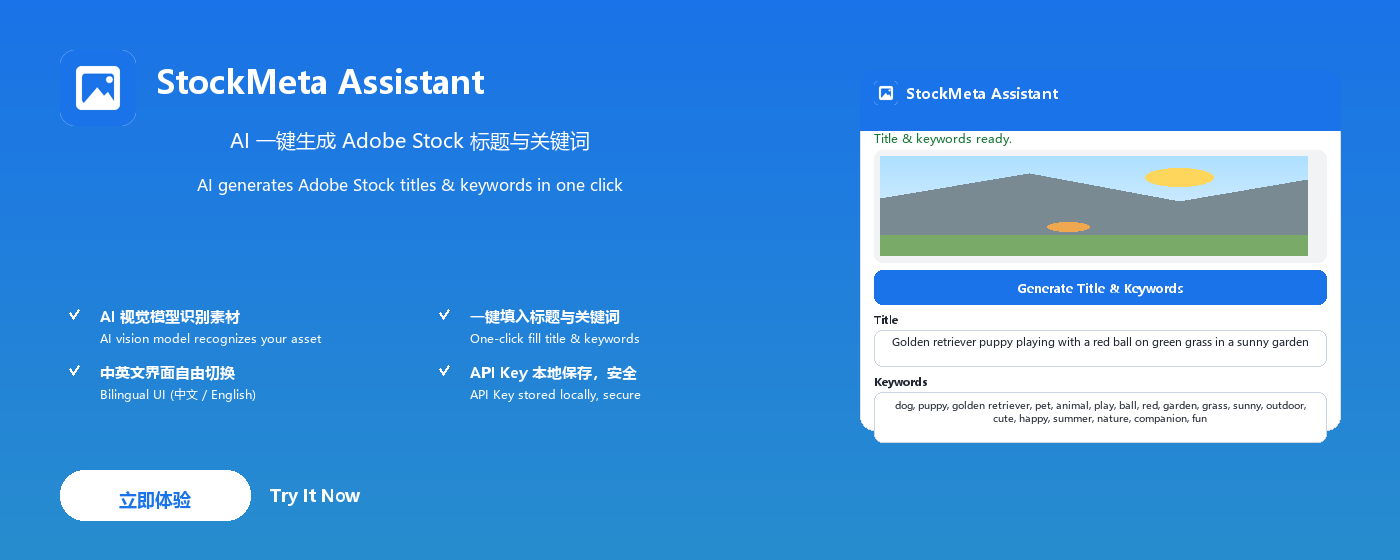
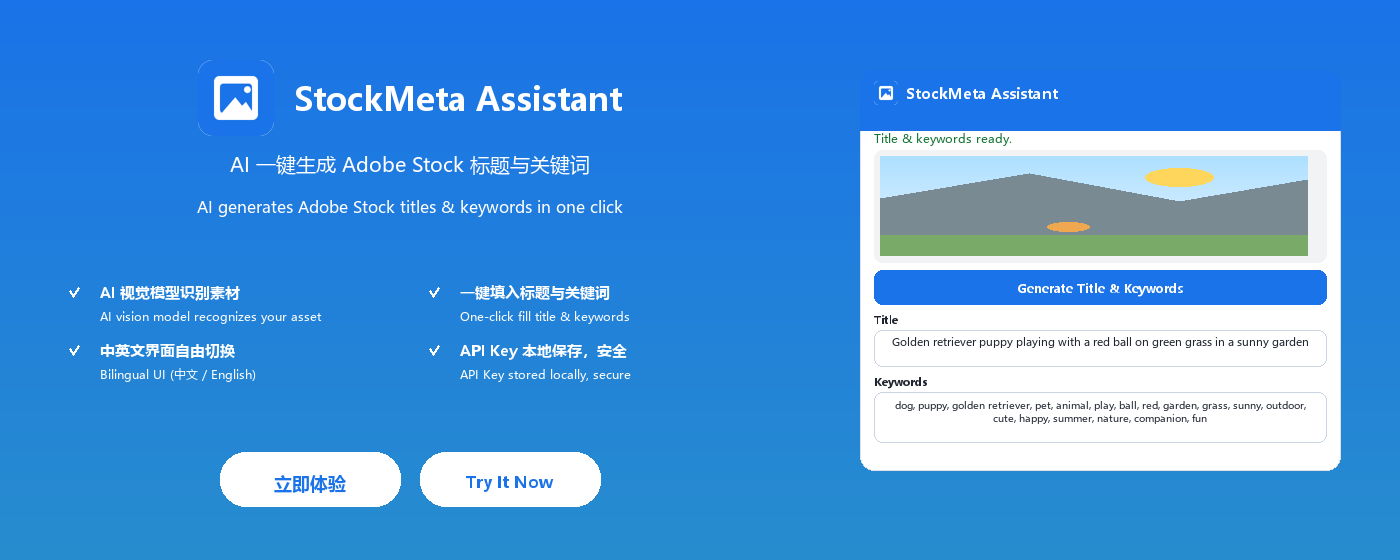
重做 promo 布局：440x280 改为整幅居中构图（图标/标题/双语标语居中，双 CTA 按钮成对居中、文字在按钮内水平垂直居中）；1400x560 左栏按栏轴居中（图标+标题成组居中、2x2 特性铺满栏宽、双 CTA 居中），并修正右侧 mini 面板内容溢出边框导致关键词被裁切的问题（面板高度 360→400）。两处均加安全区断言。

diff --git a/scripts/generate_store_assets.py b/scripts/generate_store_assets.py
@@ -629,14 +629,19 @@ def promo_440():
     for y in range(H):
         t = y / H
         d.line((0, y, W, y), fill=(int(26 + 10 * t), int(115 + 20 * t), int(232 - 20 * t)))
-    icon = Image.open(os.path.join(ROOT, "icons", "icon128.png")).convert("RGBA").resize((52, 52))
-    img.paste(icon, (24, 30), icon)
-    draw_text(d, (92, 34), PROMO["title_zh"], font(18, True), WHITE, anchor="la")
-    center_wrapped(d, (24, 100, W - 24, 134), PROMO["tag_zh"], font(14), WHITE, line_h=20, anchor_top=True)
-    center_wrapped(d, (24, 152, W - 24, 180), PROMO["tag_en"], font(12), WHITE, line_h=16, anchor_top=True)
-    # cta
-    draw_button(d, (24, 224, 200, 262), PROMO["cta_zh"], font(15, True), WHITE, BLUE, r=20)
-    d.text((216, 243), PROMO["cta_en"], font=font(14, True), fill=WHITE, anchor="lm")
+    # everything centered on the canvas axis: icon -> title -> taglines -> CTAs
+    icon = Image.open(os.path.join(ROOT, "icons", "icon128.png")).convert("RGBA").resize((56, 56))
+    img.paste(icon, (int(W / 2 - 28), 20), icon)
+    center_wrapped(d, (24, 84, W - 24, 108), PROMO["title_zh"], font(18, True), WHITE, line_h=22, anchor_top=True)
+    center_wrapped(d, (24, 114, W - 24, 140), PROMO["tag_zh"], font(14), WHITE, line_h=18, anchor_top=True)
+    center_wrapped(d, (24, 146, W - 24, 168), PROMO["tag_en"], font(12), WHITE, line_h=15, anchor_top=True)
+    # two CTAs, centered as a pair (zh + en), text centered inside each button
+    bw, bh, gap = 150, 42, 24
+    x0 = int(W / 2 - (bw * 2 + gap) / 2)
+    y0 = 196
+    draw_button(d, (x0, y0, x0 + bw, y0 + bh), PROMO["cta_zh"], font(15, True), WHITE, BLUE, r=21)
+    draw_button(d, (x0 + bw + gap, y0, x0 + bw * 2 + gap, y0 + bh), PROMO["cta_en"], font(14, True), WHITE, BLUE, r=21)
+    assert y0 + bh <= H - 12 and x0 + bw * 2 + gap <= W - 12, "440 promo overflows the safe area"
     return img
 
 
@@ -648,25 +653,34 @@ def promo_1400():
     for y in range(H):
         t = y / H
         d.line((0, y, W, y), fill=(int(26 + 14 * t), int(115 + 26 * t), int(232 - 26 * t)))
-    # left text block
-    icon = Image.open(os.path.join(ROOT, "icons", "icon128.png")).convert("RGBA").resize((76, 76))
-    img.paste(icon, (60, 50), icon)
-    draw_text(d, (156, 60), PROMO["title_zh"], font(32, True), WHITE, anchor="la")
-    center_wrapped(d, (60, 126, 760, 160), PROMO["tag_zh"], font(20), WHITE, line_h=26, anchor_top=True)
-    center_wrapped(d, (60, 174, 760, 208), PROMO["tag_en"], font(16), WHITE, line_h=20, anchor_top=True)
-    # features 2x2 small
-    fx, fy = 60, 300
-    fw = 350
+    # left text column (60..760): icon+title group, taglines, features and CTAs
+    # are all centered on the column axis; the mini panel sits on the right.
+    col_l, col_r = 60, 760
+    icon_w = 76
+    title_f = font(32, True)
+    tw, _ = text_size(d, PROMO["title_zh"], title_f)
+    gx = col_l + ((col_r - col_l) - (icon_w + 20 + tw)) / 2
+    icon = Image.open(os.path.join(ROOT, "icons", "icon128.png")).convert("RGBA").resize((icon_w, icon_w))
+    img.paste(icon, (int(gx), 60), icon)
+    draw_text(d, (gx + icon_w + 20, 60 + icon_w / 2), PROMO["title_zh"], title_f, WHITE, anchor="lm")
+    center_wrapped(d, (col_l, 150, col_r, 186), PROMO["tag_zh"], font(20), WHITE, line_h=26, anchor_top=True)
+    center_wrapped(d, (col_l, 196, col_r, 230), PROMO["tag_en"], font(16), WHITE, line_h=20, anchor_top=True)
+    # features 2x2, filling the column exactly
+    fx, fy, fw = col_l, 278, 340
     for i, (zh, en) in enumerate(PROMO["feat"]):
         r, c = divmod(i, 2)
         x = fx + c * (fw + 20)
-        y = fy + r * 56
+        y = fy + r * 58
         draw_check(d, x + 14, y + 14, 12, WHITE)
-        d.text((x + 40, y + 6), zh, font=font(15, True), fill=WHITE, anchor="la")
+        d.text((x + 40, y + 4), zh, font=font(15, True), fill=WHITE, anchor="la")
         d.text((x + 40, y + 30), en, font=font(12), fill=WHITE, anchor="la")
-    # cta
-    draw_button(d, (60, 470, 250, 520), PROMO["cta_zh"], font(18, True), WHITE, BLUE, r=24)
-    d.text((270, 495), PROMO["cta_en"], font=font(17, True), fill=WHITE, anchor="lm")
+    # two CTAs centered on the column axis, text centered inside each button
+    bw, bh, gap = 180, 54, 20
+    x0 = int((col_l + col_r) / 2 - (bw * 2 + gap) / 2)
+    y0 = 452
+    draw_button(d, (x0, y0, x0 + bw, y0 + bh), PROMO["cta_zh"], font(18, True), WHITE, BLUE, r=26)
+    draw_button(d, (x0 + bw + gap, y0, x0 + bw * 2 + gap, y0 + bh), PROMO["cta_en"], font(16, True), WHITE, BLUE, r=26)
+    assert y0 + bh <= H - 12 and x0 + bw * 2 + gap <= col_r, "1400 promo overflows the safe area"
     # right: mini panel illustration
     px = 860
     py = 70
@@ -676,7 +690,8 @@ def promo_1400():
 
 def draw_mini_panel(d, img, x, y, w, lang):
     header_h = 46
-    rr(d, (x, y, x + w, y + 360), 14, fill=WHITE, outline=(220, 224, 230), width=1)
+    ph_total = 400  # body must not overflow the frame (keywords box ends at y+456)
+    rr(d, (x, y, x + w, y + ph_total), 14, fill=WHITE, outline=(220, 224, 230), width=1)
     rr(d, (x, y, x + w, y + header_h + 14), 14, fill=BLUE)
     d.rectangle((x, y + header_h - 14, x + w, y + header_h + 14), fill=BLUE)
     icon = Image.open(os.path.join(ROOT, "icons", "icon48.png")).convert("RGBA").resize((24, 24))
